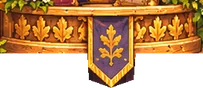
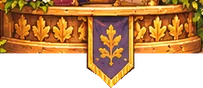
fix(teatro): contornos finos, escalón más arriba, alfombras apoyadas al medio
- Atriles, faroles, flores y bandera izquierda recortados siguiendo su borde.
- El escalón delantero sube media celda: se para detrás de los atriles.
- "apoyo" (altura del dibujo que descansa en su casilla): alfombras en 0,5.
- Cofre, fardo, macetero, podio y atril se dibujan a la mitad.
- El calibrador conserva los campos que no muestra.

Changed region(s): [[0.4138, 0.5909, 0.6798, 1.0], [0.6502, 0.5909, 0.6798, 0.75]]

diff --git a/src/core/scenes.gen.ts b/src/core/scenes.gen.ts
@@ -4,5 +4,5 @@ import type { SceneData } from './scenes.js';
 export const SCENES = [
   {"id": "jardin", "name": "Jardín", "unlock": 0, "width": 1280, "height": 720, "floors": [{"id": "pasto", "cols": 10, "rows": 5, "blocked": [[8, 3], [9, 3], [0, 4], [1, 4]], "ground": [[250, 318], [1030, 318], [1250, 700], [30, 700]]}, {"id": "escenario", "cols": 6, "rows": 2, "blocked": [], "ground": [[452, 241], [845, 241], [870, 283], [428, 283]], "over": 0}, {"id": "tarima", "cols": 3, "rows": 1, "blocked": [], "ground": [[944, 502], [1216, 502], [1234, 531], [927, 531]], "over": 2}, {"id": "banco", "cols": 2, "rows": 1, "blocked": [], "ground": [[46, 572], [282, 572], [284, 598], [44, 598]], "over": 1}, {"id": "banco-fondo", "cols": 3, "rows": 1, "blocked": [], "ground": [[184, 244], [390, 244], [392, 268], [182, 268]]}, {"id": "jardinera", "cols": 3, "rows": 1, "blocked": [], "ground": [[914, 218], [1090, 218], [1092, 233], [912, 233]]}, {"id": "arbol-1", "cols": 1, "rows": 1, "blocked": [], "ground": [[57.5, 144], [152.5, 144], [152.5, 150], [57.5, 150]], "depth": 465, "hang": true}, {"id": "arbol-2", "cols": 1, "rows": 1, "blocked": [], "ground": [[57.5, 207], [152.5, 207], [152.5, 213], [57.5, 213]], "depth": 465, "hang": true}, {"id": "arbol-3", "cols": 1, "rows": 1, "blocked": [], "ground": [[57.5, 270], [152.5, 270], [152.5, 276], [57.5, 276]], "depth": 465, "hang": true}, {"id": "arbol-4", "cols": 1, "rows": 1, "blocked": [], "ground": [[57.5, 333], [152.5, 333], [152.5, 339], [57.5, 339]], "depth": 465, "hang": true}, {"id": "perchero-1", "cols": 1, "rows": 1, "blocked": [], "ground": [[1198.5, 274], [1291.5, 274], [1291.5, 280], [1198.5, 280]], "depth": 448, "hang": true}, {"id": "perchero-2", "cols": 1, "rows": 1, "blocked": [], "ground": [[1198.5, 322], [1291.5, 322], [1291.5, 328], [1198.5, 328]], "depth": 448, "hang": true}, {"id": "perchero-3", "cols": 1, "rows": 1, "blocked": [], "ground": [[1198.5, 379], [1291.5, 379], [1291.5, 385], [1198.5, 385]], "depth": 448, "hang": true}, {"id": "reja-1", "cols": 1, "rows": 1, "blocked": [], "ground": [[1085.9, 149], [1160.1, 149], [1160.1, 155], [1085.9, 155]], "depth": 285, "hang": true}, {"id": "reja-2", "cols": 1, "rows": 1, "blocked": [], "ground": [[1085.9, 211], [1160.1, 211], [1160.1, 217], [1085.9, 217]], "depth": 285, "hang": true}, {"id": "rosal-izq", "cols": 1, "rows": 1, "blocked": [], "ground": [[484.5, 181], [557.5, 181], [557.5, 187], [484.5, 187]], "depth": 279.5, "hang": true}, {"id": "rosal-der", "cols": 1, "rows": 1, "blocked": [], "ground": [[720.5, 181], [793.5, 181], [793.5, 187], [720.5, 187]], "depth": 279.5, "hang": true}], "props": [{"name": "escenario", "x": 425, "y": 238, "w": 448, "h": 83, "base": 320}, {"name": "banco", "x": 44, "y": 571, "w": 240, "h": 77, "base": 648}, {"name": "tarima", "x": 927, "y": 501, "w": 307, "h": 84, "base": 585}, {"name": "flores-izq", "x": 0, "y": 498, "w": 192, "h": 222, "base": 720}, {"name": "flores-der", "x": 1058, "y": 500, "w": 222, "h": 220, "base": 720}], "cast": [{"id": "1-00", "w": 1, "sw": 1.3, "sh": 1.26, "name": "Gatito naranjo saltando"}, {"id": "1-01", "w": 1, "sw": 1.23, "sh": 1.2, "name": "Gatito blanco saltando"}, {"id": "1-02", "w": 1, "sw": 0.41, "sh": 0.4, "name": "Pelota roja", "object": true}, {"id": "1-03", "w": 1, "sw": 0.47, "sh": 1.25, "name": "Globo turquesa", "object": true}, {"id": "1-04", "w": 1, "sw": 1.32, "sh": 0.66, "name": "Gatita blanca recostada"}, {"id": "1-05", "w": 1, "sw": 1.28, "sh": 0.65, "name": "Gatito negro recostado"}, {"id": "1-06", "w": 1, "sw": 0.59, "sh": 1.64, "name": "Gatito gris estirándose"}, {"id": "1-07", "w": 1, "sw": 0.63, "sh": 1.65, "name": "Gatito blanco estirándose"}, {"id": "1-08", "w": 1, "sw": 1.18, "sh": 1.26, "name": "Gatita tricolor con flauta"}, {"id": "1-09", "w": 1, "sw": 0.76, "sh": 1.02, "name": "Gatito negro leyendo"}, {"id": "1-10", "w": 1, "sw": 1.15, "sh": 1.35, "name": "Gatita naranja bailando"}, {"id": "1-11", "w": 1, "sw": 0.36, "sh": 0.36, "name": "Pelota azul", "object": true}, {"id": "1-12", "w": 1, "sw": 1.19, "sh": 1.19, "name": "Gatito gris con laúd"}, {"id": "1-13", "w": 1, "sw": 0.65, "sh": 0.56, "name": "Canasta de frutas", "object": true}, {"id": "1-14", "w": 1, "sw": 1.16, "sh": 1.12, "name": "Gatito atigrado jugando"}, {"id": "1-15", "w": 1, "sw": 0.45, "sh": 1.18, "name": "Globo rosado", "object": true}, {"id": "1-16", "w": 1, "sw": 1.22, "sh": 0.56, "name": "Gatito gris durmiendo"}, {"id": "1-17", "w": 1, "sw": 1.15, "sh": 0.72, "name": "Gatito blanco agazapado"}, {"id": "1-18", "w": 1, "sw": 1.14, "sh": 0.69, "name": "Gatito naranjo agazapado"}, {"id": "1-19", "w": 1, "sw": 0.63, "sh": 0.65, "name": "Ramo de rosas", "object": true}, {"id": "2-00", "w": 1, "sw": 1.71, "sh": 1.03, "name": "Gatito naranjo volando"}, {"id": "2-01", "w": 1, "sw": 0.59, "sh": 1.04, "name": "Globo rojo", "object": true}, {"id": "2-02", "w": 1, "sw": 1.13, "sh": 0.72, "name": "Gatita blanca soñando"}, {"id": "2-03", "w": 1, "sw": 0.65, "sh": 1.64, "name": "Gatito gris saltando"}, {"id": "2-04", "w": 1, "sw": 1.02, "sh": 1.29, "name": "Gatita flautista"}, {"id": "2-05", "w": 1, "sw": 1.02, "sh": 0.82, "name": "Gatito blanco con pelota"}, {"id": "2-06", "w": 1, "sw": 0.27, "sh": 0.27, "name": "Pelotita", "object": true}, {"id": "2-07", "w": 1, "sw": 1.21, "sh": 1.19, "name": "Gatita bailarina"}, {"id": "2-08", "w": 1, "sw": 1.02, "sh": 1.09, "name": "Gatito negro lector"}, {"id": "2-09", "w": 1, "sw": 1.04, "sh": 1.2, "name": "Gatita gris con flores"}, {"id": "2-10", "w": 1, "sw": 1.12, "sh": 1.16, "name": "Gatito atigrado con laúd"}, {"id": "2-11", "w": 1, "sw": 0.46, "sh": 1.47, "name": "Globo verde", "object": true}, {"id": "2-12", "w": 1, "sw": 1.09, "sh": 0.59, "name": "Gatito gris dormilón"}, {"id": "2-13", "w": 1, "sw": 0.9, "sh": 0.66, "name": "Canasta de picnic", "object": true}]},
   {"id": "circo", "name": "Circo", "unlock": 15, "width": 1280, "height": 720, "floors": [{"id": "pista", "cols": 8, "rows": 3, "blocked": [], "ground": [[300, 520], [980, 520], [1100, 668], [180, 668]]}, {"id": "grada", "cols": 10, "rows": 1, "blocked": [], "ground": [[252, 432], [1030, 432], [1034, 447], [248, 447]]}, {"id": "plataforma-izq", "cols": 3, "rows": 1, "blocked": [], "ground": [[0, 427], [244, 427], [228, 458], [0, 458]]}, {"id": "plataforma-der", "cols": 3, "rows": 1, "blocked": [], "ground": [[1036, 427], [1280, 427], [1280, 458], [1052, 458]]}, {"id": "trapecio-izq", "cols": 2, "rows": 1, "blocked": [], "ground": [[238, 216], [390, 216], [390, 226], [238, 226]], "hang": true}, {"id": "trapecio-centro", "cols": 2, "rows": 1, "blocked": [], "ground": [[550, 302], [734, 302], [734, 312], [550, 312]], "hang": true}, {"id": "trapecio-der", "cols": 2, "rows": 1, "blocked": [], "ground": [[892, 216], [1044, 216], [1044, 226], [892, 226]], "hang": true}, {"id": "cuerda-izq-1", "cols": 1, "rows": 1, "blocked": [], "ground": [[60.6, 166], [137.4, 166], [137.4, 172], [60.6, 172]], "depth": 453.6, "hang": true}, {"id": "cuerda-izq-2", "cols": 1, "rows": 1, "blocked": [], "ground": [[60.6, 239], [137.4, 239], [137.4, 245], [60.6, 245]], "depth": 453.6, "hang": true}, {"id": "cuerda-izq-3", "cols": 1, "rows": 1, "blocked": [], "ground": [[60.6, 306], [137.4, 306], [137.4, 312], [60.6, 312]], "depth": 453.6, "hang": true}, {"id": "cuerda-der-1", "cols": 1, "rows": 1, "blocked": [], "ground": [[1141.6, 169], [1218.4, 169], [1218.4, 175], [1141.6, 175]], "depth": 453.6, "hang": true}, {"id": "cuerda-der-2", "cols": 1, "rows": 1, "blocked": [], "ground": [[1141.6, 239], [1218.4, 239], [1218.4, 245], [1141.6, 245]], "depth": 453.6, "hang": true}, {"id": "cuerda-der-3", "cols": 1, "rows": 1, "blocked": [], "ground": [[1141.6, 306], [1218.4, 306], [1218.4, 312], [1141.6, 312]], "depth": 453.6, "hang": true}], "props": [], "cast": [{"id": "circo-guacamayo-bufon", "w": 1, "sw": 1.4, "sh": 1.11, "name": "Guacamayo bufón"}, {"id": "circo-guacamayo-boina", "w": 1, "sw": 1.21, "sh": 1.11, "name": "Guacamayo con boina"}, {"id": "circo-tucan", "w": 1, "sw": 1.2, "sh": 1.24, "name": "Tucán mago"}, {"id": "circo-ninfa", "w": 1, "sw": 0.9, "sh": 1.23, "name": "Ninfa de gala"}, {"id": "circo-perico", "w": 1, "sw": 0.64, "sh": 1.08, "name": "Perico de cabeza", "hang": true}, {"id": "circo-martin", "w": 1, "sw": 1.21, "sh": 0.93, "name": "Martín pescador"}, {"id": "circo-golondrina", "w": 1, "sw": 1.17, "sh": 1.04, "name": "Golondrina"}, {"id": "circo-cacatua", "w": 1, "sw": 1.29, "sh": 1.06, "name": "Cacatúa reverente"}, {"id": "circo-petirrojo", "w": 1, "sw": 1.1, "sh": 1.03, "name": "Petirrojo trovador"}, {"id": "circo-guacamayo-casco", "w": 1, "sw": 1.42, "sh": 0.8, "name": "Guacamayo con casco"}, {"id": "circo-canon", "w": 2, "sw": 1.37, "sh": 1.16, "name": "Cañón", "object": true}, {"id": "circo-mesa", "w": 1, "sw": 0.97, "sh": 1.01, "name": "Mesa de magia", "top": 0.07, "object": true}, {"id": "circo-tambor", "w": 2, "sw": 1.45, "sh": 0.7, "name": "Tambor de pista", "top": 0.16, "object": true}, {"id": "circo-pelota", "w": 1, "sw": 0.62, "sh": 0.62, "name": "Pelota de circo", "object": true}, {"id": "circo-sombrero", "w": 1, "sw": 0.77, "sh": 0.68, "name": "Sombrero de copa", "top": 0.1, "object": true}, {"id": "circo-varita", "w": 1, "sw": 0.25, "sh": 0.63, "name": "Varita mágica", "object": true}]},
-  {"id": "teatro", "name": "Teatro", "unlock": 999, "width": 1280, "height": 640, "floors": [{"id": "tablas", "cols": 8, "rows": 3, "blocked": [], "ground": [[352, 350], [928, 350], [1000, 430], [280, 430]]}, {"id": "proscenio", "cols": 7, "rows": 1, "blocked": [], "ground": [[300, 534], [980, 534], [992, 562], [288, 562]]}, {"id": "pie", "cols": 10, "rows": 1, "blocked": [], "ground": [[125, 606], [1155, 606], [1170, 638], [110, 638]]}, {"id": "palco-izq-arriba", "cols": 2, "rows": 1, "blocked": [], "ground": [[78, 238], [222, 238], [226, 252], [74, 252]]}, {"id": "palco-der-arriba", "cols": 2, "rows": 1, "blocked": [], "ground": [[1058, 238], [1202, 238], [1206, 252], [1054, 252]]}, {"id": "palco-izq-abajo", "cols": 2, "rows": 1, "blocked": [], "ground": [[82, 396], [218, 396], [222, 410], [78, 410]]}, {"id": "palco-der-abajo", "cols": 2, "rows": 1, "blocked": [], "ground": [[1062, 396], [1198, 396], [1202, 410], [1058, 410]]}, {"id": "escalera-izq-1", "cols": 1, "rows": 1, "blocked": [], "ground": [[174.5, 446], [269.5, 446], [269.5, 452], [174.5, 452]], "depth": 452}, {"id": "escalera-izq-2", "cols": 1, "rows": 1, "blocked": [], "ground": [[124.1, 521], [235.9, 521], [235.9, 527], [124.1, 527]], "depth": 527}, {"id": "escalera-der-1", "cols": 1, "rows": 1, "blocked": [], "ground": [[1010.5, 446], [1105.5, 446], [1105.5, 452], [1010.5, 452]], "depth": 452}, {"id": "escalera-der-2", "cols": 1, "rows": 1, "blocked": [], "ground": [[1044.1, 521], [1155.9, 521], [1155.9, 527], [1044.1, 527]], "depth": 527}], "props": [{"name": "baranda-izq", "x": 47, "y": 232, "w": 203, "h": 88, "base": 290}, {"name": "baranda-der", "x": 1035, "y": 232, "w": 205, "h": 90, "base": 290}, {"name": "farol-palco-izq", "x": 128, "y": 118, "w": 34, "h": 74, "base": 300}, {"name": "farol-palco-der", "x": 1118, "y": 118, "w": 34, "h": 74, "base": 300}, {"name": "farol-nicho-izq", "x": 203, "y": 352, "w": 37, "h": 53, "base": 420}, {"name": "farol-nicho-der", "x": 1042, "y": 350, "w": 36, "h": 55, "base": 420}, {"name": "atril-izq", "x": 293, "y": 462, "w": 72, "h": 95, "base": 566}, {"name": "atril-der", "x": 915, "y": 462, "w": 72, "h": 95, "base": 566}, {"name": "flores-izq", "x": 358, "y": 503, "w": 164, "h": 61, "base": 575}, {"name": "flores-der", "x": 762, "y": 505, "w": 163, "h": 59, "base": 575}, {"name": "farol-izq", "x": 252, "y": 478, "w": 48, "h": 122, "base": 600}, {"name": "farol-der", "x": 980, "y": 478, "w": 48, "h": 122, "base": 600}], "cast": [{"id": "teatro-zorro-laud", "w": 1, "sw": 1.4, "sh": 1.28, "name": "Zorro con laúd", "blink": [0.1058, 0.0058, 0.8942, 0.9942]}, {"id": "teatro-conejo-violin", "w": 1, "sw": 1.15, "sh": 1.34, "name": "Conejo violinista", "blink": [0.1419, 0.0939, 0.8, 0.6519]}, {"id": "teatro-oso-contrabajo", "w": 1, "sw": 1.24, "sh": 1.29, "name": "Oso con contrabajo", "blink": [0.2679, 0.0115, 0.7202, 0.9655]}, {"id": "teatro-cierva-arpa", "w": 1, "sw": 1.24, "sh": 1.27, "name": "Cierva con arpa", "blink": [0.0179, 0.0175, 0.9762, 0.9825]}, {"id": "teatro-leon-rey", "w": 1, "sw": 1.24, "sh": 1.26, "name": "León rey", "blink": [0.0417, 0.0, 0.9048, 1.0]}, {"id": "teatro-zorra-reina", "w": 1, "sw": 1.1, "sh": 1.23, "name": "Zorra reina", "blink": [0.2685, 0.0663, 0.6577, 0.9337]}, {"id": "teatro-tejon-caballero", "w": 1, "sw": 1.13, "sh": 1.25, "name": "Tejón caballero", "blink": [0.0654, 0.0828, 0.8366, 0.9172]}, {"id": "teatro-sapo-mago", "w": 1, "sw": 1.33, "sh": 1.22, "name": "Sapo mago", "blink": [0.1944, 0.0364, 0.7222, 0.6364]}, {"id": "teatro-erizo-tambor", "w": 1, "sw": 1.27, "sh": 1.15, "name": "Erizo tamborilero", "blink": [0.0698, 0.0065, 0.9128, 0.9935]}, {"id": "teatro-tortuga-oboe", "w": 1, "sw": 1.1, "sh": 1.16, "name": "Tortuga con oboe", "blink": [0.1554, 0.1083, 0.7297, 0.8917]}, {"id": "teatro-ardilla-pandereta", "w": 1, "sw": 1.22, "sh": 1.1, "name": "Ardilla con pandereta", "blink": [0.2061, 0.0, 0.7212, 0.7919]}, {"id": "teatro-zarigueya-cantante", "w": 1, "sw": 1.12, "sh": 1.1, "name": "Zarigüeya cantante", "blink": [0.1325, 0.0201, 0.5894, 0.9732]}, {"id": "teatro-raton-director", "w": 1, "sw": 0.95, "sh": 1.05, "name": "Ratón director", "blink": [0.0781, 0.0423, 0.7734, 0.8873]}, {"id": "teatro-liebre-espada", "w": 1, "sw": 1.19, "sh": 1.23, "name": "Liebre espadachina", "blink": [0.1491, 0.0361, 0.4845, 0.9639]}, {"id": "teatro-oso-viajero", "w": 1, "sw": 1.23, "sh": 1.14, "name": "Oso viajero", "blink": [0.0, 0.0649, 0.9639, 0.9351]}, {"id": "teatro-ciervo-brindis", "w": 1, "sw": 1.2, "sh": 1.2, "name": "Ciervo brindando", "blink": [0.0432, 0.0556, 0.9444, 0.8457]}, {"id": "teatro-tejon-gaita", "w": 1, "sw": 1.36, "sh": 1.14, "name": "Tejón gaitero", "blink": [0.1848, 0.0, 0.6902, 0.8896]}, {"id": "teatro-raton-laud", "w": 1, "sw": 1.05, "sh": 1.08, "name": "Ratón con laúd", "blink": [0.1901, 0.0, 0.4437, 0.8014]}, {"id": "teatro-mapache-campanas", "w": 1, "sw": 1.21, "sh": 1.14, "name": "Mapache campanero", "blink": [0.0366, 0.0, 0.9634, 0.8377]}, {"id": "teatro-sapo-corno", "w": 1, "sw": 1.18, "sh": 1.1, "name": "Sapo con corno", "blink": [0.1321, 0.0, 0.8491, 0.7635]}, {"id": "teatro-topo-acordeon", "w": 1, "sw": 1.19, "sh": 1.03, "name": "Topo acordeonista", "blink": [0.0621, 0.0647, 0.882, 0.6619]}, {"id": "teatro-mapache-capucha", "w": 1, "sw": 1.24, "sh": 1.08, "name": "Mapache encapuchado", "blink": [0.1905, 0.226, 0.5714, 0.411]}, {"id": "teatro-raton-antifaz", "w": 1, "sw": 1.08, "sh": 1.13, "name": "Ratón con antifaz", "blink": [0.0, 0.0395, 1.0, 0.9605]}, {"id": "teatro-ardilla-pergamino", "w": 1, "sw": 1.09, "sh": 1.07, "name": "Ardilla con pergamino", "blink": [0.1156, 0.0345, 0.8844, 0.5103]}, {"id": "teatro-zarigueya-viajera", "w": 1, "sw": 1.24, "sh": 1.1, "name": "Zarigüeya viajera", "blink": [0.1737, 0.0872, 0.6886, 0.8926]}, {"id": "teatro-topo-xilofono", "w": 1, "sw": 1.43, "sh": 1.04, "name": "Topo con xilófono", "blink": [0.2656, 0.0, 0.6771, 0.8143]}, {"id": "teatro-buho-cantor", "w": 1, "sw": 1.19, "sh": 1.04, "name": "Búho cantor", "blink": [0.275, 0.0142, 0.5188, 0.9149]}, {"id": "teatro-conejita-flauta", "w": 1, "sw": 0.9, "sh": 1.11, "name": "Conejita flautista", "blink": [0.0492, 0.0333, 0.8689, 0.9]}, {"id": "teatro-oso-bombo", "w": 1, "sw": 1.16, "sh": 1.08, "name": "Oso con bombo", "blink": [0.1026, 0.0137, 0.7821, 0.9863]}, {"id": "teatro-cervatillo-laud", "w": 1, "sw": 1.19, "sh": 1.12, "name": "Cervatillo con laúd", "blink": [0.0, 0.0596, 0.8875, 0.9404]}, {"id": "teatro-lobo-trovador", "w": 1, "sw": 1.24, "sh": 1.12, "name": "Lobo trovador", "blink": [0.0299, 0.0596, 0.9401, 0.7616]}, {"id": "teatro-rana-peregrina", "w": 1, "sw": 1.13, "sh": 1.07, "name": "Rana peregrina", "blink": [0.0789, 0.0278, 0.8882, 0.9722]}, {"id": "teatro-ratona-abanico", "w": 1, "sw": 1.13, "sh": 1.07, "name": "Ratona con abanico", "blink": [0.2092, 0.0764, 0.7843, 0.9236]}, {"id": "teatro-tejon-partitura", "w": 1, "sw": 1.18, "sh": 1.07, "name": "Tejón con partitura", "blink": [0.1698, 0.0278, 0.4969, 0.9167]}, {"id": "teatro-eriza-pocion", "w": 1, "sw": 1.17, "sh": 1.02, "name": "Eriza con poción", "blink": [0.1076, 0.0942, 0.8924, 0.7536]}, {"id": "teatro-nutria-zampona", "w": 1, "sw": 1.26, "sh": 1.1, "name": "Nutria con zampoña", "blink": [0.2647, 0.047, 0.5412, 0.5503]}, {"id": "teatro-zorro-flauta", "w": 1, "sw": 1.16, "sh": 1.13, "name": "Zorro flautista", "blink": [0.1529, 0.0719, 0.7516, 0.9281]}, {"id": "teatro-mapache-banjo", "w": 1, "sw": 1.23, "sh": 1.12, "name": "Mapache con banjo", "blink": [0.0301, 0.0464, 0.9699, 0.9536]}, {"id": "teatro-pajarito-azul", "w": 1, "sw": 1.03, "sh": 1.09, "name": "Pajarito azul", "blink": [0.0935, 0.1224, 0.7698, 0.8776]}, {"id": "teatro-ratona-flores", "w": 1, "sw": 1.17, "sh": 1.12, "name": "Ratona con corona de flores", "blink": [0.0759, 0.0265, 0.8228, 0.9669]}, {"id": "teatro-oso-narrador", "w": 1, "sw": 1.21, "sh": 1.12, "name": "Oso narrador", "blink": [0.184, 0.0397, 0.5337, 0.9603]}, {"id": "teatro-topo-mascara", "w": 1, "sw": 1.24, "sh": 1.12, "name": "Topo con máscara", "blink": [0.1548, 0.0, 0.8155, 1.0]}, {"id": "teatro-buho-astronomo", "w": 1, "sw": 1.19, "sh": 1.07, "name": "Búho astrónomo", "blink": [0.0312, 0.0, 0.8812, 1.0]}, {"id": "teatro-caja", "w": 1, "sw": 0.98, "sh": 0.83, "name": "Caja", "top": 0.18, "object": true}, {"id": "teatro-barril", "w": 1, "sw": 0.85, "sh": 0.91, "name": "Barril", "top": 0.12, "object": true}, {"id": "teatro-cofre", "w": 1, "sw": 1.07, "sh": 0.83, "name": "Cofre", "top": 0.2, "object": true}, {"id": "teatro-tarima", "w": 1, "sw": 1.48, "sh": 0.59, "name": "Tarima", "top": 0.3, "object": true}, {"id": "teatro-pedestal", "w": 1, "sw": 1.03, "sh": 0.83, "name": "Pedestal", "top": 0.18, "object": true}, {"id": "teatro-mesa", "w": 1, "sw": 1.37, "sh": 0.78, "name": "Mesa con mantel", "top": 0.18, "object": true}, {"id": "teatro-tocon", "w": 1, "sw": 1.47, "sh": 0.82, "name": "Tocón", "top": 0.22, "object": true}, {"id": "teatro-roca", "w": 1, "sw": 1.3, "sh": 0.82, "name": "Roca", "top": 0.2, "object": true}, {"id": "teatro-hongo", "w": 1, "sw": 1.13, "sh": 0.87, "name": "Hongo", "top": 0.12, "object": true}, {"id": "teatro-fardo", "w": 1, "sw": 1.21, "sh": 0.76, "name": "Fardo de paja", "top": 0.2, "object": true}, {"id": "teatro-banca", "w": 1, "sw": 1.31, "sh": 0.73, "name": "Banca", "top": 0.22, "object": true}, {"id": "teatro-taburete", "w": 1, "sw": 0.74, "sh": 0.65, "name": "Taburete", "top": 0.15, "object": true}, {"id": "teatro-cojin", "w": 1, "sw": 1.24, "sh": 0.79, "name": "Cojín", "top": 0.35, "object": true}, {"id": "teatro-cojines", "w": 1, "sw": 1.15, "sh": 0.91, "name": "Cojines", "top": 0.2, "object": true}, {"id": "teatro-alfombra", "w": 1, "sw": 1.22, "sh": 0.75, "name": "Alfombra", "object": true, "layer": "back"}, {"id": "teatro-alfombra-redonda", "w": 1, "sw": 1.48, "sh": 0.78, "name": "Alfombra redonda", "object": true, "layer": "back"}, {"id": "teatro-macetero", "w": 1, "sw": 1.22, "sh": 0.8, "name": "Macetero con flores", "object": true, "layer": "front"}, {"id": "teatro-escalones", "w": 1, "sw": 1.23, "sh": 0.9, "name": "Escalones", "top": 0.1, "object": true}, {"id": "teatro-puente", "w": 1, "sw": 1.56, "sh": 0.94, "name": "Puente", "top": 0.3, "object": true}, {"id": "teatro-tarima-redonda", "w": 1, "sw": 1.38, "sh": 0.84, "name": "Tarima redonda", "top": 0.22, "object": true}, {"id": "teatro-trono", "w": 2, "sw": 1.89, "sh": 1.91, "name": "Trono", "top": 0.6, "object": true}, {"id": "teatro-podio", "w": 1, "sw": 0.76, "sh": 1.04, "name": "Atril para hablar", "object": true, "layer": "front"}, {"id": "teatro-atril", "w": 1, "sw": 0.83, "sh": 1.14, "name": "Atril con libro", "object": true, "layer": "back"}, {"id": "teatro-farol", "w": 1, "sw": 0.69, "sh": 1.2, "name": "Farol", "object": true, "layer": "back"}, {"id": "teatro-arco", "w": 3, "sw": 2.58, "sh": 2.36, "name": "Arco de flores", "object": true, "layer": "back"}]},
+  {"id": "teatro", "name": "Teatro", "unlock": 999, "width": 1280, "height": 640, "floors": [{"id": "tablas", "cols": 8, "rows": 3, "blocked": [], "ground": [[352, 350], [928, 350], [1000, 430], [280, 430]]}, {"id": "proscenio", "cols": 7, "rows": 1, "blocked": [], "ground": [[301, 522], [979, 522], [990, 550], [290, 550]]}, {"id": "pie", "cols": 10, "rows": 1, "blocked": [], "ground": [[125, 606], [1155, 606], [1170, 638], [110, 638]]}, {"id": "palco-izq-arriba", "cols": 2, "rows": 1, "blocked": [], "ground": [[78, 238], [222, 238], [226, 252], [74, 252]]}, {"id": "palco-der-arriba", "cols": 2, "rows": 1, "blocked": [], "ground": [[1058, 238], [1202, 238], [1206, 252], [1054, 252]]}, {"id": "palco-izq-abajo", "cols": 2, "rows": 1, "blocked": [], "ground": [[82, 396], [218, 396], [222, 410], [78, 410]]}, {"id": "palco-der-abajo", "cols": 2, "rows": 1, "blocked": [], "ground": [[1062, 396], [1198, 396], [1202, 410], [1058, 410]]}, {"id": "escalera-izq-1", "cols": 1, "rows": 1, "blocked": [], "ground": [[174.5, 446], [269.5, 446], [269.5, 452], [174.5, 452]], "depth": 452}, {"id": "escalera-izq-2", "cols": 1, "rows": 1, "blocked": [], "ground": [[124.1, 521], [235.9, 521], [235.9, 527], [124.1, 527]], "depth": 527}, {"id": "escalera-der-1", "cols": 1, "rows": 1, "blocked": [], "ground": [[1010.5, 446], [1105.5, 446], [1105.5, 452], [1010.5, 452]], "depth": 452}, {"id": "escalera-der-2", "cols": 1, "rows": 1, "blocked": [], "ground": [[1044.1, 521], [1155.9, 521], [1155.9, 527], [1044.1, 527]], "depth": 527}], "props": [{"name": "baranda-izq", "x": 47, "y": 232, "w": 203, "h": 88, "base": 290}, {"name": "baranda-der", "x": 1035, "y": 232, "w": 205, "h": 90, "base": 290}, {"name": "farol-palco-izq", "x": 130, "y": 108, "w": 31, "h": 88, "base": 300}, {"name": "farol-palco-der", "x": 1120, "y": 112, "w": 31, "h": 83, "base": 300}, {"name": "farol-nicho-izq", "x": 203, "y": 352, "w": 37, "h": 53, "base": 420}, {"name": "farol-nicho-der", "x": 1042, "y": 350, "w": 36, "h": 55, "base": 420}, {"name": "atril-izq", "x": 289, "y": 464, "w": 80, "h": 96, "base": 566}, {"name": "atril-der", "x": 918, "y": 462, "w": 74, "h": 95, "base": 566}, {"name": "flores-izq", "x": 357, "y": 505, "w": 153, "h": 87, "base": 575}, {"name": "flores-der", "x": 761, "y": 506, "w": 164, "h": 85, "base": 575}, {"name": "farol-izq", "x": 254, "y": 480, "w": 42, "h": 120, "base": 600}, {"name": "farol-der", "x": 987, "y": 481, "w": 40, "h": 119, "base": 600}], "cast": [{"id": "teatro-zorro-laud", "w": 1, "sw": 1.4, "sh": 1.28, "name": "Zorro con laúd", "blink": [0.1058, 0.0058, 0.8942, 0.9942]}, {"id": "teatro-conejo-violin", "w": 1, "sw": 1.15, "sh": 1.34, "name": "Conejo violinista", "blink": [0.1419, 0.0939, 0.8, 0.6519]}, {"id": "teatro-oso-contrabajo", "w": 1, "sw": 1.24, "sh": 1.29, "name": "Oso con contrabajo", "blink": [0.2679, 0.0115, 0.7202, 0.9655]}, {"id": "teatro-cierva-arpa", "w": 1, "sw": 1.24, "sh": 1.27, "name": "Cierva con arpa", "blink": [0.0179, 0.0175, 0.9762, 0.9825]}, {"id": "teatro-leon-rey", "w": 1, "sw": 1.24, "sh": 1.26, "name": "León rey", "blink": [0.0417, 0.0, 0.9048, 1.0]}, {"id": "teatro-zorra-reina", "w": 1, "sw": 1.1, "sh": 1.23, "name": "Zorra reina", "blink": [0.2685, 0.0663, 0.6577, 0.9337]}, {"id": "teatro-tejon-caballero", "w": 1, "sw": 1.13, "sh": 1.25, "name": "Tejón caballero", "blink": [0.0654, 0.0828, 0.8366, 0.9172]}, {"id": "teatro-sapo-mago", "w": 1, "sw": 1.33, "sh": 1.22, "name": "Sapo mago", "blink": [0.1944, 0.0364, 0.7222, 0.6364]}, {"id": "teatro-erizo-tambor", "w": 1, "sw": 1.27, "sh": 1.15, "name": "Erizo tamborilero", "blink": [0.0698, 0.0065, 0.9128, 0.9935]}, {"id": "teatro-tortuga-oboe", "w": 1, "sw": 1.1, "sh": 1.16, "name": "Tortuga con oboe", "blink": [0.1554, 0.1083, 0.7297, 0.8917]}, {"id": "teatro-ardilla-pandereta", "w": 1, "sw": 1.22, "sh": 1.1, "name": "Ardilla con pandereta", "blink": [0.2061, 0.0, 0.7212, 0.7919]}, {"id": "teatro-zarigueya-cantante", "w": 1, "sw": 1.12, "sh": 1.1, "name": "Zarigüeya cantante", "blink": [0.1325, 0.0201, 0.5894, 0.9732]}, {"id": "teatro-raton-director", "w": 1, "sw": 0.95, "sh": 1.05, "name": "Ratón director", "blink": [0.0781, 0.0423, 0.7734, 0.8873]}, {"id": "teatro-liebre-espada", "w": 1, "sw": 1.19, "sh": 1.23, "name": "Liebre espadachina", "blink": [0.1491, 0.0361, 0.4845, 0.9639]}, {"id": "teatro-oso-viajero", "w": 1, "sw": 1.23, "sh": 1.14, "name": "Oso viajero", "blink": [0.0, 0.0649, 0.9639, 0.9351]}, {"id": "teatro-ciervo-brindis", "w": 1, "sw": 1.2, "sh": 1.2, "name": "Ciervo brindando", "blink": [0.0432, 0.0556, 0.9444, 0.8457]}, {"id": "teatro-tejon-gaita", "w": 1, "sw": 1.36, "sh": 1.14, "name": "Tejón gaitero", "blink": [0.1848, 0.0, 0.6902, 0.8896]}, {"id": "teatro-raton-laud", "w": 1, "sw": 1.05, "sh": 1.08, "name": "Ratón con laúd", "blink": [0.1901, 0.0, 0.4437, 0.8014]}, {"id": "teatro-mapache-campanas", "w": 1, "sw": 1.21, "sh": 1.14, "name": "Mapache campanero", "blink": [0.0366, 0.0, 0.9634, 0.8377]}, {"id": "teatro-sapo-corno", "w": 1, "sw": 1.18, "sh": 1.1, "name": "Sapo con corno", "blink": [0.1321, 0.0, 0.8491, 0.7635]}, {"id": "teatro-topo-acordeon", "w": 1, "sw": 1.19, "sh": 1.03, "name": "Topo acordeonista", "blink": [0.0621, 0.0647, 0.882, 0.6619]}, {"id": "teatro-mapache-capucha", "w": 1, "sw": 1.24, "sh": 1.08, "name": "Mapache encapuchado", "blink": [0.1905, 0.226, 0.5714, 0.411]}, {"id": "teatro-raton-antifaz", "w": 1, "sw": 1.08, "sh": 1.13, "name": "Ratón con antifaz", "blink": [0.0, 0.0395, 1.0, 0.9605]}, {"id": "teatro-ardilla-pergamino", "w": 1, "sw": 1.09, "sh": 1.07, "name": "Ardilla con pergamino", "blink": [0.1156, 0.0345, 0.8844, 0.5103]}, {"id": "teatro-zarigueya-viajera", "w": 1, "sw": 1.24, "sh": 1.1, "name": "Zarigüeya viajera", "blink": [0.1737, 0.0872, 0.6886, 0.8926]}, {"id": "teatro-topo-xilofono", "w": 1, "sw": 1.43, "sh": 1.04, "name": "Topo con xilófono", "blink": [0.2656, 0.0, 0.6771, 0.8143]}, {"id": "teatro-buho-cantor", "w": 1, "sw": 1.19, "sh": 1.04, "name": "Búho cantor", "blink": [0.275, 0.0142, 0.5188, 0.9149]}, {"id": "teatro-conejita-flauta", "w": 1, "sw": 0.9, "sh": 1.11, "name": "Conejita flautista", "blink": [0.0492, 0.0333, 0.8689, 0.9]}, {"id": "teatro-oso-bombo", "w": 1, "sw": 1.16, "sh": 1.08, "name": "Oso con bombo", "blink": [0.1026, 0.0137, 0.7821, 0.9863]}, {"id": "teatro-cervatillo-laud", "w": 1, "sw": 1.19, "sh": 1.12, "name": "Cervatillo con laúd", "blink": [0.0, 0.0596, 0.8875, 0.9404]}, {"id": "teatro-lobo-trovador", "w": 1, "sw": 1.24, "sh": 1.12, "name": "Lobo trovador", "blink": [0.0299, 0.0596, 0.9401, 0.7616]}, {"id": "teatro-rana-peregrina", "w": 1, "sw": 1.13, "sh": 1.07, "name": "Rana peregrina", "blink": [0.0789, 0.0278, 0.8882, 0.9722]}, {"id": "teatro-ratona-abanico", "w": 1, "sw": 1.13, "sh": 1.07, "name": "Ratona con abanico", "blink": [0.2092, 0.0764, 0.7843, 0.9236]}, {"id": "teatro-tejon-partitura", "w": 1, "sw": 1.18, "sh": 1.07, "name": "Tejón con partitura", "blink": [0.1698, 0.0278, 0.4969, 0.9167]}, {"id": "teatro-eriza-pocion", "w": 1, "sw": 1.17, "sh": 1.02, "name": "Eriza con poción", "blink": [0.1076, 0.0942, 0.8924, 0.7536]}, {"id": "teatro-nutria-zampona", "w": 1, "sw": 1.26, "sh": 1.1, "name": "Nutria con zampoña", "blink": [0.2647, 0.047, 0.5412, 0.5503]}, {"id": "teatro-zorro-flauta", "w": 1, "sw": 1.16, "sh": 1.13, "name": "Zorro flautista", "blink": [0.1529, 0.0719, 0.7516, 0.9281]}, {"id": "teatro-mapache-banjo", "w": 1, "sw": 1.23, "sh": 1.12, "name": "Mapache con banjo", "blink": [0.0301, 0.0464, 0.9699, 0.9536]}, {"id": "teatro-pajarito-azul", "w": 1, "sw": 1.03, "sh": 1.09, "name": "Pajarito azul", "blink": [0.0935, 0.1224, 0.7698, 0.8776]}, {"id": "teatro-ratona-flores", "w": 1, "sw": 1.17, "sh": 1.12, "name": "Ratona con corona de flores", "blink": [0.0759, 0.0265, 0.8228, 0.9669]}, {"id": "teatro-oso-narrador", "w": 1, "sw": 1.21, "sh": 1.12, "name": "Oso narrador", "blink": [0.184, 0.0397, 0.5337, 0.9603]}, {"id": "teatro-topo-mascara", "w": 1, "sw": 1.24, "sh": 1.12, "name": "Topo con máscara", "blink": [0.1548, 0.0, 0.8155, 1.0]}, {"id": "teatro-buho-astronomo", "w": 1, "sw": 1.19, "sh": 1.07, "name": "Búho astrónomo", "blink": [0.0312, 0.0, 0.8812, 1.0]}, {"id": "teatro-caja", "w": 1, "sw": 0.98, "sh": 0.83, "name": "Caja", "top": 0.18, "object": true}, {"id": "teatro-barril", "w": 1, "sw": 0.85, "sh": 0.91, "name": "Barril", "top": 0.12, "object": true}, {"id": "teatro-cofre", "w": 1, "sw": 0.54, "sh": 0.41, "name": "Cofre", "top": 0.2, "object": true}, {"id": "teatro-tarima", "w": 1, "sw": 1.48, "sh": 0.59, "name": "Tarima", "top": 0.3, "object": true}, {"id": "teatro-pedestal", "w": 1, "sw": 1.03, "sh": 0.83, "name": "Pedestal", "top": 0.18, "object": true}, {"id": "teatro-mesa", "w": 1, "sw": 1.37, "sh": 0.78, "name": "Mesa con mantel", "top": 0.18, "object": true}, {"id": "teatro-tocon", "w": 1, "sw": 1.47, "sh": 0.82, "name": "Tocón", "top": 0.22, "object": true}, {"id": "teatro-roca", "w": 1, "sw": 1.3, "sh": 0.82, "name": "Roca", "top": 0.2, "object": true}, {"id": "teatro-hongo", "w": 1, "sw": 1.13, "sh": 0.87, "name": "Hongo", "top": 0.12, "object": true}, {"id": "teatro-fardo", "w": 1, "sw": 0.6, "sh": 0.38, "name": "Fardo de paja", "top": 0.2, "object": true}, {"id": "teatro-banca", "w": 1, "sw": 1.31, "sh": 0.73, "name": "Banca", "top": 0.22, "object": true}, {"id": "teatro-taburete", "w": 1, "sw": 0.74, "sh": 0.65, "name": "Taburete", "top": 0.15, "object": true}, {"id": "teatro-cojin", "w": 1, "sw": 1.24, "sh": 0.79, "name": "Cojín", "top": 0.35, "object": true}, {"id": "teatro-cojines", "w": 1, "sw": 1.15, "sh": 0.91, "name": "Cojines", "top": 0.2, "object": true}, {"id": "teatro-alfombra", "w": 1, "sw": 1.22, "sh": 0.75, "name": "Alfombra", "foot": 0.5, "object": true, "layer": "back"}, {"id": "teatro-alfombra-redonda", "w": 1, "sw": 1.48, "sh": 0.78, "name": "Alfombra redonda", "foot": 0.5, "object": true, "layer": "back"}, {"id": "teatro-macetero", "w": 1, "sw": 0.61, "sh": 0.4, "name": "Macetero con flores", "object": true, "layer": "front"}, {"id": "teatro-escalones", "w": 1, "sw": 1.23, "sh": 0.9, "name": "Escalones", "top": 0.1, "object": true}, {"id": "teatro-puente", "w": 1, "sw": 1.56, "sh": 0.94, "name": "Puente", "top": 0.3, "object": true}, {"id": "teatro-tarima-redonda", "w": 1, "sw": 1.38, "sh": 0.84, "name": "Tarima redonda", "top": 0.22, "object": true}, {"id": "teatro-trono", "w": 2, "sw": 1.89, "sh": 1.91, "name": "Trono", "top": 0.6, "object": true}, {"id": "teatro-podio", "w": 1, "sw": 0.38, "sh": 0.52, "name": "Atril para hablar", "object": true, "layer": "front"}, {"id": "teatro-atril", "w": 1, "sw": 0.41, "sh": 0.57, "name": "Atril con libro", "object": true, "layer": "back"}, {"id": "teatro-farol", "w": 1, "sw": 0.69, "sh": 1.2, "name": "Farol", "object": true, "layer": "back"}, {"id": "teatro-arco", "w": 3, "sw": 2.58, "sh": 2.36, "name": "Arco de flores", "object": true, "layer": "back"}]},
 ] as const satisfies readonly SceneData[];

diff --git a/scripts/calibrador.html b/scripts/calibrador.html
@@ -367,10 +367,13 @@ function setPersonaje(k) {
   const c = cuts[k];
   const card = document.querySelector(`[data-cuse="${k}"]`).closest('.cut');
   const use = card.querySelector('[data-cuse]').checked;
-  for (const [id, p] of Object.entries(escena.personajes)) if (p.recorte === c.recorte) delete escena.personajes[id];
+  let before = {};
+  for (const [id, p] of Object.entries(escena.personajes)) if (p.recorte === c.recorte) { before = p; delete escena.personajes[id]; }
   if (use) {
     const id = card.querySelector('[data-cid]').value.trim() || `${sid}-${k}`;
-    const entry = { recorte: c.recorte, ancho: Number(card.querySelector('[data-cw]').value), nombre: card.querySelector('[data-cname]').value.trim() || id };
+    // Fields without a control here (like "apoyo") are kept; the ones with a control are set again below.
+    const { encima, cuelga, escala, tipo, capa, ...rest } = before;
+    const entry = { ...rest, recorte: c.recorte, ancho: Number(card.querySelector('[data-cw]').value), nombre: card.querySelector('[data-cname]').value.trim() || id };
     const top = card.querySelector('[data-ctop]').value;
     if (top !== '') entry.encima = Math.min(1, Math.max(0, Number(top)));
     if (card.querySelector('[data-chang]').checked) entry.cuelga = true;

diff --git a/src/shared/board.ts b/src/shared/board.ts
@@ -1,6 +1,6 @@
 import { backgroundScene, floorOf, floorsOf, sceneOfPiece, shapeSize, viewOf } from '../core/board.js';
 import type { Point } from '../core/perspective.js';
-import { blinkOf, hangs, homeOf, layerOf, lookSize, topOf } from '../core/scenes.js';
+import { blinkOf, footOf, hangs, homeOf, layerOf, lookSize, topOf } from '../core/scenes.js';
 import type { AppData, PieceKind, Placed, Placement } from '../core/types.js';
 import { isDevBuild } from '../platform/env.js';
 import { projection, type Projection } from './scene.js';
@@ -56,7 +56,7 @@ function spotAt(kind: PieceKind, x: number, y: number, cell: number, hanging: bo
   const look = lookSize(kind);
   const width = look.w * cell;
   const height = look.h * cell;
-  return { left: x - width / 2, top: hanging ? y : y - height, width, height, cell, depth };
+  return { left: x - width / 2, top: hanging ? y : y - height * footOf(kind), width, height, cell, depth };
 }
 
 /**

diff --git a/src/core/scenes.ts b/src/core/scenes.ts
@@ -44,6 +44,8 @@ export interface SceneData {
     top?: number;
     /** Hangs from its feet on hanging floors. */
     hang?: boolean;
+    /** Height of its drawing that rests on its cell (0 = top, 1 = bottom, the default): a rug lies on its middle. */
+    foot?: number;
     /** A thing (a drum, a rug), not a character: rewards are drawn by kind. */
     object?: boolean;
     /**
@@ -97,6 +99,11 @@ export function topOf(kind: CastId): number | undefined {
 
 export function hangs(kind: CastId): boolean {
   return INFO.get(kind)!.hang === true;
+}
+
+/** Height of its drawing that rests on its cell: 1 (its bottom edge) except for things lying flat, like rugs. */
+export function footOf(kind: CastId): number {
+  return INFO.get(kind)!.foot ?? 1;
 }
 
 /** A thing (a drum, a rug) rather than a character. */

diff --git a/scripts/escenas.py b/scripts/escenas.py
@@ -456,6 +456,8 @@ def build(folder: Path, check: bool, seen_ids: set[str]) -> dict:
             entry["top"] = p["encima"]  # where on its drawing another character can stand (0 = top edge)
         if p.get("cuelga"):
             entry["hang"] = True  # hangs from its feet on floors made for hanging
+        if "apoyo" in p:
+            entry["foot"] = p["apoyo"]  # height of its drawing that rests on its cell (0 = top, 1 = bottom): rugs, 0.5
         if p.get("tipo", "personaje") == "objeto":
             entry["object"] = True  # a thing, not a character (rewards are drawn by kind)
         if "capa" in p:

diff --git a/docs/03-solucion.md b/docs/03-solucion.md
@@ -86,7 +86,8 @@ Basados en ciclos conocidos de concentración (Pomodoro y bloques largos), siemp
   - `personajes`: id → `recorte` (`hoja.png#n`), `ancho` (1 a 3 cuadritos) y `nombre`; opcional `encima` (altura de su
     dibujo, 0 = arriba, donde puede pararse otro personaje: mesa, tambor, sombrero), `cuelga`, `escala` (si en la hoja
     lo dibujaron más grande o más chico que el resto, como la bailarina del jardín, 0,75), `tipo: "objeto"` (para el
-    sorteo de premios) y `capa` (`detras` o `delante`: no ocupa lugar, ver abajo).
+    sorteo de premios), `capa` (`detras` o `delante`: no ocupa lugar, ver abajo) y `apoyo` (altura del dibujo que
+    descansa sobre su casilla, 0 = arriba, 1 = abajo por defecto: las alfombras, 0,5, se apoyan en su mitad).
 - **`scripts/escenas.py`** (herramienta, necesita Pillow; la extensión no tiene dependencias) recorta los personajes,
   limpia el halo casi invisible del recorte de fondo, recorta los objetos, achica todo a WebP en `public/escenas/<id>/`
   y genera `src/core/scenes.gen.ts`. Con `--check` deja `_recortes.png` (recortes numerados) y `_vista.png` (pisos y
